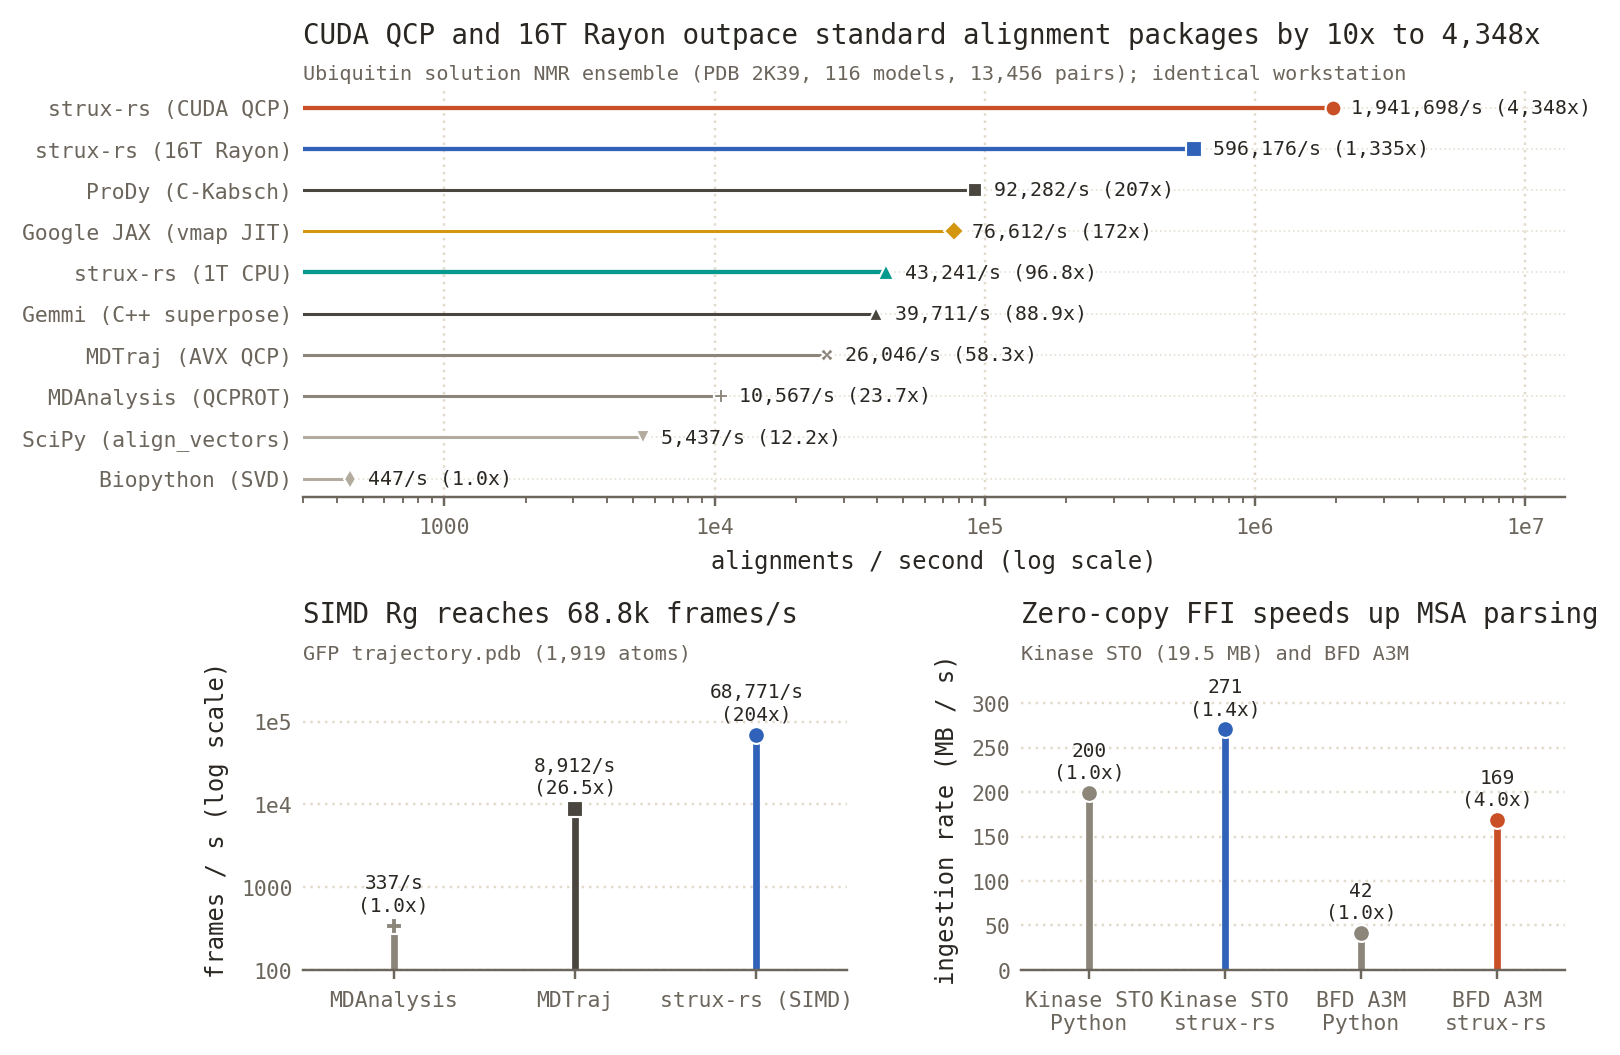
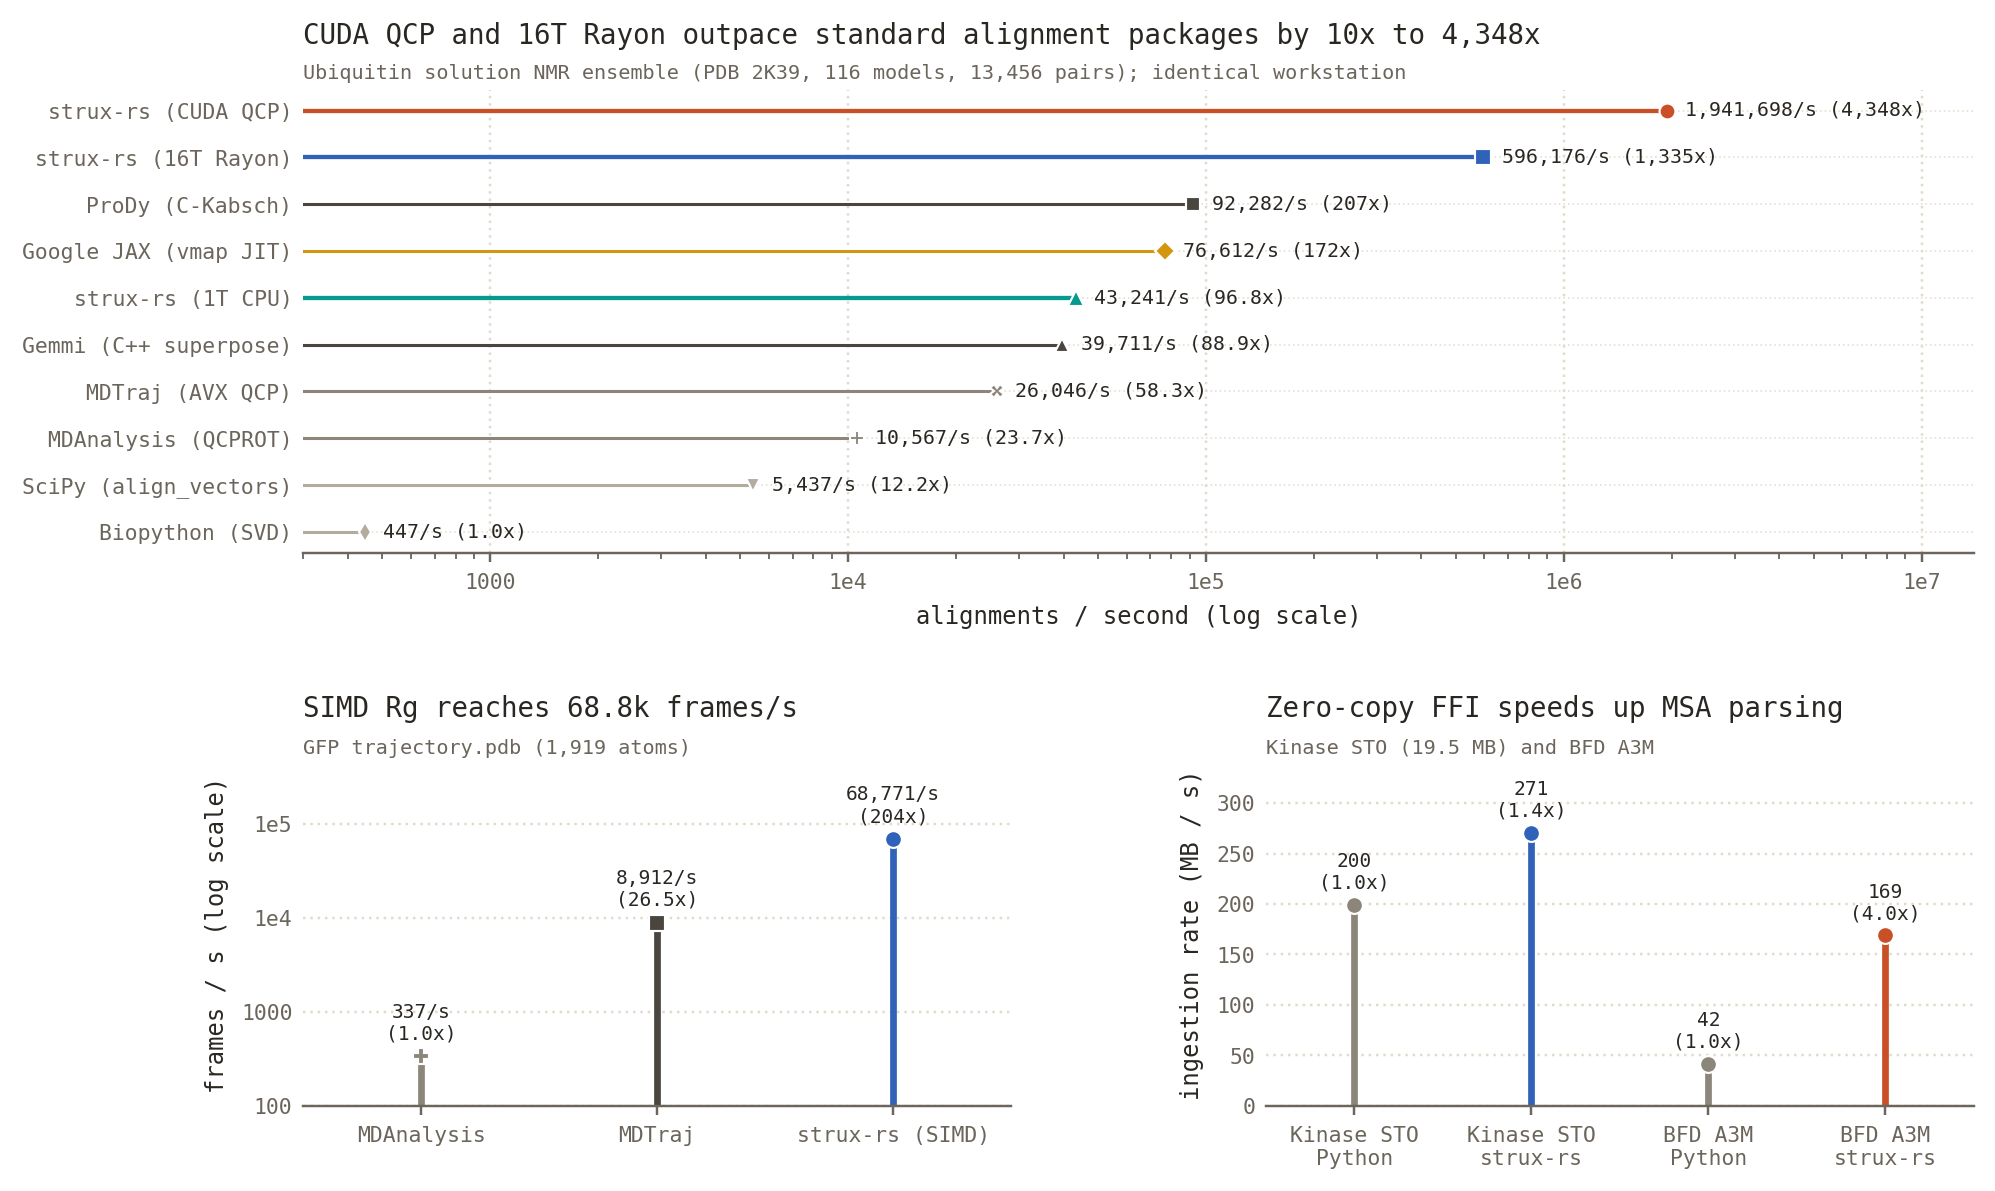
fix(plots): widen new_features_verification grid to 10.8x6.4 to eliminate title and label overlap

diff --git a/scripts/render_spinglass_style_plots.py b/scripts/render_spinglass_style_plots.py
@@ -281,8 +281,8 @@ def make_hardware_soak():
 # 3. benchmarks/gold_standard_comparison.png
 # ==============================================================================
 def make_gold_standard():
-    fig = plt.figure(figsize=(7.4, 5.2))
-    gs = fig.add_gridspec(2, 2, height_ratios=[1.35, 1.0], hspace=0.48, wspace=0.32)
+    fig = plt.figure(figsize=(9.8, 6.0))
+    gs = fig.add_gridspec(2, 2, height_ratios=[1.35, 1.0], hspace=0.52, wspace=0.36)
 
     # Panel A (top full width): Horizontal Cleveland dot-and-stem plot (like SpinGlassBench Fig 7/9)
     ax1 = fig.add_subplot(gs[0, :])
@@ -380,7 +380,7 @@ def make_gold_standard():
 # 4. benchmarks/new_features_verification.png (Includes AMS Biophysics Suite!)
 # ==============================================================================
 def make_new_features():
-    fig, axes = plt.subplots(2, 2, figsize=(7.4, 5.2))
+    fig, axes = plt.subplots(2, 2, figsize=(10.8, 6.4))
     (ax1, ax2), (ax3, ax4) = axes
 
     # Panel A: AMS Biophysics Speedups (lDDT, MSA cluster, PCA, XTC)
@@ -409,16 +409,16 @@ def make_new_features():
     ax1.set_xlabel("speedup over NumPy / MDAnalysis (log scale)")
     titles(
         ax1,
-        "AMS biophysics kernels run 5.1x to 201x faster",
-        "16T Core i9 (309s burn: 5,658 lDDT / 815B pairs; err = 0)",
+        "AMS biophysics: 5.1x to 201x faster",
+        "16T Core i9 (5,658 lDDT / 815B pairs; err = 0)",
     )
 
     # Panel B: T4 Lysozyme 4-State Markov Population & Rare State Recovery
     states = [
-        "Buried/\nOpen",
-        "Exposed/\nOpen",
-        "Buried/\nClosed",
-        "Exposed/\nClosed (rare)",
+        "Buried\nOpen",
+        "Exposed\nOpen",
+        "Buried\nClosed",
+        "Exposed\nClosed (rare)",
     ]
     pi_true = np.array([58.2, 39.2, 1.9, 0.7])
     pi_rec = np.array([57.97, 39.34, 1.97, 0.73])
@@ -438,8 +438,8 @@ def make_new_features():
     ax2.legend(loc="upper right", fontsize=6.5)
     titles(
         ax2,
-        "Markov solver recovers the 0.7% rare state in 19.3 ms",
-        "2e6 steps (103.9M frames/s); max |pi - eig| = 1.36e-8; T = 300 K",
+        "Markov solver: 0.7% rare state in 19.3 ms",
+        "2M steps (103.9M fps); max |pi - eig| = 1.36e-8; T = 300 K",
     )
 
     # Panel C: Binary Trajectory Readers (.dcd and .xtc)
@@ -465,16 +465,16 @@ def make_new_features():
     ax3.set_ylabel("read latency (ms, log)")
     titles(
         ax3,
-        "Pure-Rust XTC and DCD readers beat C xdrfile plugins",
-        "XTC: 500x1,000 atoms (max err 1.5e-5 A); DCD: 21x1,919 atoms",
+        "Rust XTC & DCD beat C plugins (7.3x - 73.6x)",
+        "500-fr XTC (max err 1.5e-5 A); 21-fr DCD (exact match)",
     )
 
     # Panel D: Zero-copy tokens_np & GPU Contact Map
     accel = [
-        ("tokens_np\nPython", 1.0, GRAYS[1], "1.0x\n(8.40 ms)"),
-        ("tokens_np\nstrux-rs", 664.0, COBALT, "664x\n(12.6 us)"),
-        ("Contacts\nNumPy", 1.0, GRAYS[1], "1.0x\n(3.68 s)"),
-        ("Contacts\nCUDA", 19.5, RUST, "19.5x\n(189 ms)"),
+        ("tokens_np\n(Python)", 1.0, GRAYS[1], "1.0x\n(8.40 ms)"),
+        ("tokens_np\n(strux-rs)", 664.0, COBALT, "664x\n(12.6 us)"),
+        ("Contacts\n(NumPy)", 1.0, GRAYS[1], "1.0x\n(3.68 s)"),
+        ("Contacts\n(CUDA)", 19.5, RUST, "19.5x\n(189 ms)"),
     ]
     xs4 = np.arange(len(accel))
     for x, (name, sp, col, lbl) in zip(xs4, accel):
@@ -490,11 +490,11 @@ def make_new_features():
     ax4.set_ylabel("relative speedup (log)")
     titles(
         ax4,
-        "Zero-copy token blit (664x) & GPU contact map (19.5x)",
-        "1,024x73 MSA uint8 tensor and 1,919x1,919 contact matrix",
+        "Zero-copy tokens (664x) & GPU contact map (19.5x)",
+        "1,024x73 MSA tensor & 1,919x1,919 contact matrix",
     )
 
-    fig.tight_layout(h_pad=1.8, w_pad=1.8)
+    fig.tight_layout(h_pad=2.8, w_pad=3.2)
     Path("benchmarks").mkdir(exist_ok=True)
     fig.savefig("benchmarks/new_features_verification.png", bbox_inches="tight", dpi=220)
     plt.close(fig)

diff --git a/README.md b/README.md
@@ -77,7 +77,7 @@ Head-to-head comparison across standard computational biology packages on identi
 | | MDTraj | 2.24 ms | 8,912.2 fps | 26.5× |
 | | **`strux-rs` (SIMD)** | **0.29 ms** | **68,770.8 fps** | **204×** |
 
-![Gold-Standard Ecosystem Benchmark](benchmarks/gold_standard_comparison.png?v=0.4.1)
+![Gold-Standard Ecosystem Benchmark](benchmarks/gold_standard_comparison.png?v=0.4.1b)
 
 ### 2. AMS Biophysics & Zero-Copy Acceleration
 
@@ -92,7 +92,7 @@ Head-to-head comparison across standard computational biology packages on identi
 | **MSA `uint8` Tensor** (`tokens_np`) | 1,024 seqs × 73 residues | 8.40 ms (Python) | **12.6 µs** | **664×** | Exact byte-for-byte match |
 | **GPU Contact Map** (`cuda_contact_frequency`) | 1,919 × 1,919 grid | 3,677.7 ms (NumPy) | **188.8 ms** | **19.5×** | `0.00e+00` exact parity |
 
-![New Features Verification](benchmarks/new_features_verification.png?v=0.4.1)
+![New Features Verification](benchmarks/new_features_verification.png?v=0.4.1b)
 
 <details>
 <summary><b>Extended Benchmarks: $O(T^2)$ Scaling, Cloud L4 GPU (24 GB) & 5-Minute Thermal Soak</b></summary>
@@ -105,7 +105,7 @@ Head-to-head comparison across standard computational biology packages on identi
 | 2,500 | 6,250,000 | 11.8s | 3.211s | 1,946,400 pairs/s | 3.7× |
 | 5,000 | 25,000,000 | 47.0s | 12.169s | **2,054,488 pairs/s** | **3.9×** |
 
-![Benchmark Scaling](benchmarks/benchmark_scaling.png?v=0.4.1)
+![Benchmark Scaling](benchmarks/benchmark_scaling.png?v=0.4.1b)
 
 #### B. Cloud NVIDIA L4 (24 GB) vs. Laptop RTX A2000 (4 GB)
 | Workload & System Scale | Laptop RTX A2000 (4 GB, 35W) | Cloud NVIDIA L4 (24 GB, 72W) | L4 Throughput / Speedup |
@@ -119,7 +119,7 @@ Head-to-head comparison across standard computational biology packages on identi
 | **Shrake-Rupley BSA** (2,048 atoms, 96 points) | 1.96 ms | **8.30 ms** | **90.6× vs pure Python** |
 | **Sliding 15-mer Novelty DB** (5k queries × 500 refs) | 9,477.5 ms | **7,441.5 ms** | **1,793.8× vs Python** (7.4s vs ~3.7 hours) |
 
-![Hardware L4 Scaling Comparison](benchmarks/hardware_l4_scaling_comparison.png?v=0.4.1)
+![Hardware L4 Scaling Comparison](benchmarks/hardware_l4_scaling_comparison.png?v=0.4.1b)
 
 #### C. Prolonged 5-Minute Full-System Hardware Burn (`309.3s` Concurrent 16T CPU + CUDA GPU)
 Under 5+ continuous minutes of simultaneous **16-thread Rayon CPU torture (`97.5%` mean utilization)** and **100% CUDA GPU saturation**:
@@ -131,7 +131,7 @@ Under 5+ continuous minutes of simultaneous **16-thread Rayon CPU torture (`97.5
   * **AF-Cluster `cluster_msa`**: `14,630,000` sequences clustered (`3.66 billion` residues)
   * **Markov State Steps**: `731,500,000` transitions solved
 
-![Hardware Soak Telemetry](benchmarks/hardware_soak_telemetry.png?v=0.4.1)
+![Hardware Soak Telemetry](benchmarks/hardware_soak_telemetry.png?v=0.4.1b)
 
 </details>
 
